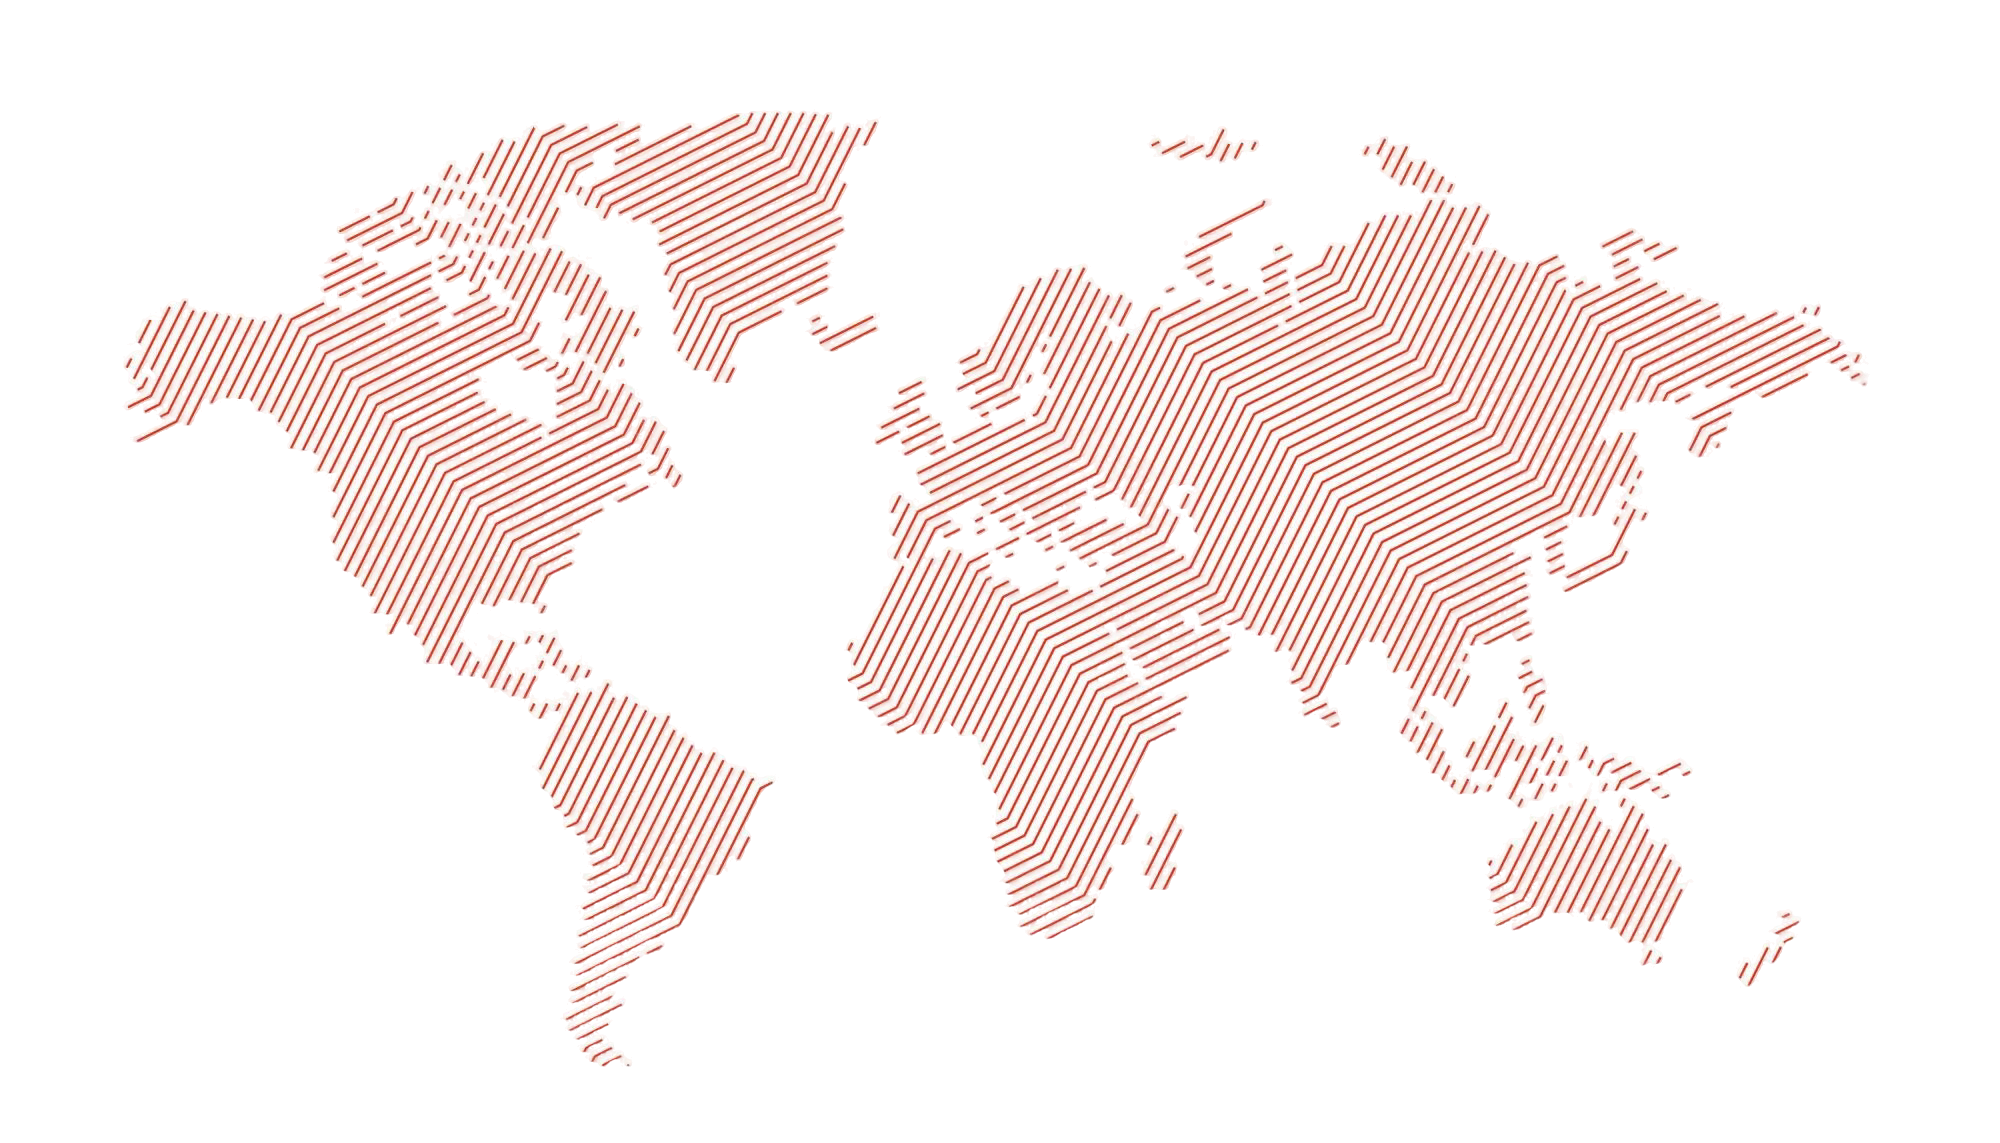
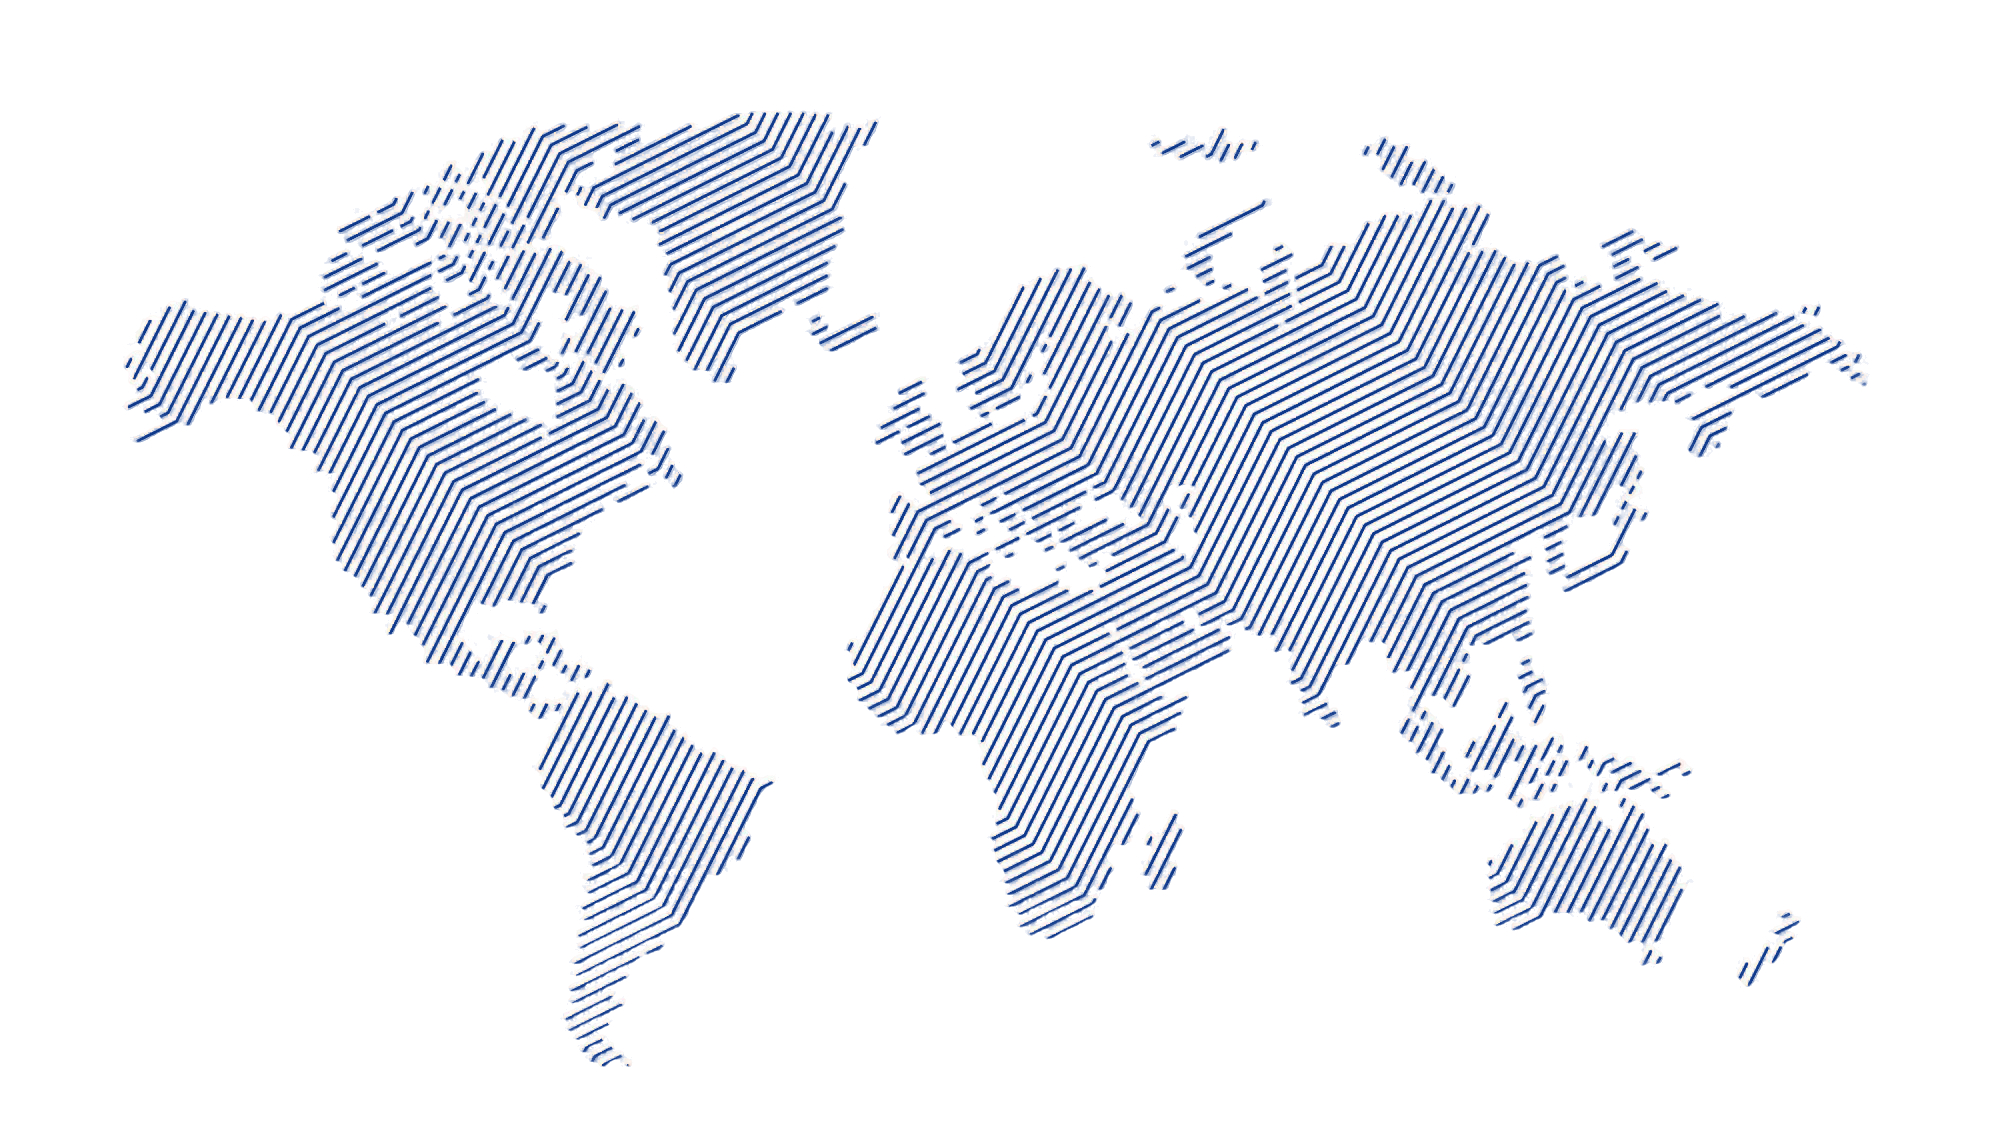
feat(theme): update default theme colors to #0E388A royal blue, #14EF4A neon green, #1F2B5D navy, and recolor background map

diff --git a/src/utils/getPrimaryColor.ts b/src/utils/getPrimaryColor.ts
@@ -8,11 +8,11 @@ export const getPrimaryColor = (): string => {
             tenant?.color_scheme?.primary ||
             tenant?.primary_color ||
             tenant?.theme?.primary ||
-            "#6c1c2c"
+            "#0E388A"
         );
     } catch (error) {
         console.error("Error reading tenant from localStorage:", error);
-        return "#6c1c2c";
+        return "#0E388A";
     }
 };
 
@@ -34,15 +34,15 @@ export const updateTenantInStorage = (tenantData: any) => {
  */
 export const hexToRgb = (hex: string): [number, number, number] => {
     try {
-        const clean = (hex || "#6c1c2c").replace("#", "").trim();
+        const clean = (hex || "#0E388A").replace("#", "").trim();
         const fullHex = clean.length === 3
             ? clean.split("").map((c) => c + c).join("")
             : clean;
         const num = parseInt(fullHex, 16);
-        if (isNaN(num)) return [108, 28, 44];
+        if (isNaN(num)) return [14, 56, 138];
         return [(num >> 16) & 255, (num >> 8) & 255, num & 255];
     } catch {
-        return [108, 28, 44];
+        return [14, 56, 138];
     }
 };
 
@@ -58,10 +58,13 @@ export const getThemePalette = (overridePrimary?: string) => ({
         const p = overridePrimary || getPrimaryColor();
         return `${p}18`;
     },
-    green: "#10b981",
+    secondary: "#14EF4A",
+    accent: "#14EF4A",
+    navy: "#1F2B5D",
+    blue: "#0E388A",
+    green: "#14EF4A",
     orange: "#f59e0b",
     red: "#ef4444",
-    blue: "#3b82f6",
     indigo: "#6366f1",
     purple: "#8b5cf6",
     teal: "#0d9488",

diff --git a/src/components/spinner/NubaLoader.css b/src/components/spinner/NubaLoader.css
@@ -35,41 +35,41 @@
   animation-delay: 400ms;
 }
 
-/* Updated color variations based on #6c1c2c */
+/* Updated color variations based on #0E388A */
 .cell:nth-child(1) {
-  --cell-color: var(--primary-color, #6c1c2c);
+  --cell-color: var(--primary-color, #0E388A);
 }
 
 .cell:nth-child(2) {
-  --cell-color: #7c2134;
+  --cell-color: #144498;
 }
 
 .cell:nth-child(3) {
-  --cell-color: #8c263c;
+  --cell-color: #1c51a8;
 }
 
 .cell:nth-child(4) {
-  --cell-color: #9c2b44;
+  --cell-color: #255ebd;
 }
 
 .cell:nth-child(5) {
-  --cell-color: #ac304c;
+  --cell-color: #306dd3;
 }
 
 .cell:nth-child(6) {
-  --cell-color: #bc3554;
+  --cell-color: #3d7deb;
 }
 
 .cell:nth-child(7) {
-  --cell-color: #cc3a5c;
+  --cell-color: #4e8dfa;
 }
 
 .cell:nth-child(8) {
-  --cell-color: #dc3f64;
+  --cell-color: #639eff;
 }
 
 .cell:nth-child(9) {
-  --cell-color: #ec446c;
+  --cell-color: #7bb0ff;
 }
 
 /*Animation*/

diff --git a/src/pages/OrderManagement/Invoices/InvoiceTemplates.tsx b/src/pages/OrderManagement/Invoices/InvoiceTemplates.tsx
@@ -797,7 +797,7 @@ const PaymentDetailsBlock = ({
 const Footer = ({ sys, borderColor = C.border, accentColor = C.primary }: { sys: SystemDetails; borderColor?: string; accentColor?: string }) => {
     // Determine which logo to use based on background color
     // Light backgrounds (Ocean: #ffffff, Forest: #f0fdf4) need dark logo
-    // Dark backgrounds (Classic: #6c1c2c, Slate: #1e293b, Minimal: #374151) need light logo
+    // Dark backgrounds (Classic: #0E388A, Slate: #1e293b, Minimal: #374151) need light logo
     const isLightBackground = accentColor === '#3b82f6' || accentColor === '#16a34a';
     const logoSrc = isLightBackground ? '/relia2.png' : '/relia.png';
 

diff --git a/src/pages/Login/login.tsx b/src/pages/Login/login.tsx
@@ -371,10 +371,10 @@ const StaffLoginPage = () => {
     const getBackgroundGradient = () => {
         const primary = tenant?.color_scheme?.primary || tenant?.primary_color || tenant?.theme?.primary;
         if (primary) {
-            const secondary = tenant?.color_scheme?.secondary || "#c26d2e";
+            const secondary = tenant?.color_scheme?.secondary || "#14EF4A";
             return `linear-gradient(135deg, ${primary} 0%, ${secondary} 100%)`;
         }
-        return "linear-gradient(135deg, #2c3e50 0%, #6c1c2c 100%)";
+        return "linear-gradient(135deg, #1F2B5D 0%, #0E388A 55%, #14EF4A 100%)";
     };
 
     const RetailBackground = () => (

diff --git a/src/components/spinner/cartLoader.module.css b/src/components/spinner/cartLoader.module.css
@@ -14,14 +14,14 @@
 @keyframes shadowPulse {
   33% {
     background: #FFF;
-    box-shadow: -24px 0 var(--primary-color, #6c1c2c), 24px 0 #FFF;
+    box-shadow: -24px 0 var(--primary-color, #0E388A), 24px 0 #FFF;
   }
   66% {
-    background: var(--primary-color, #6c1c2c);
+    background: var(--primary-color, #0E388A);
     box-shadow: -24px 0 #FFF, 24px 0 #FFF;
   }
   100% {
     background: #FFF;
-    box-shadow: -24px 0 #FFF, 24px 0 var(--primary-color, #6c1c2c);
+    box-shadow: -24px 0 #FFF, 24px 0 var(--primary-color, #0E388A);
   }
 }

diff --git a/src/AdminDashboard/Settings/TenantSettings.tsx b/src/AdminDashboard/Settings/TenantSettings.tsx
@@ -166,8 +166,8 @@ const TabNav: React.FC<{
 // ── Default colors ────────────────────────────────────────────────────────────
 const getDefaultColors = () => ({
   primary: getPrimaryColor(),
-  secondary: "#3b82f6",
-  accent: "#8b5cf6",
+  secondary: "#14EF4A",
+  accent: "#1F2B5D",
   background: "#ffffff",
   text: "#0f172a",
 });

diff --git a/src/index.css b/src/index.css
@@ -2,7 +2,7 @@
 
 /* Primary color variable - will be overridden by JavaScript */
 :root {
-  --primary-color: #6c1c2c;
+  --primary-color: #0E388A;
   --font-poppins: "Poppins", sans-serif !important;
 }
 

diff --git a/src/components/TableCard/table.module.css b/src/components/TableCard/table.module.css
@@ -11,7 +11,7 @@
   object-fit: cover;
   position: relative;
   border-radius: 4px;
-  /* fill-opacity: #6c1c2c; */
+  /* fill-opacity: #0E388A; */
   /* opacity: 90%; */
 }
 
